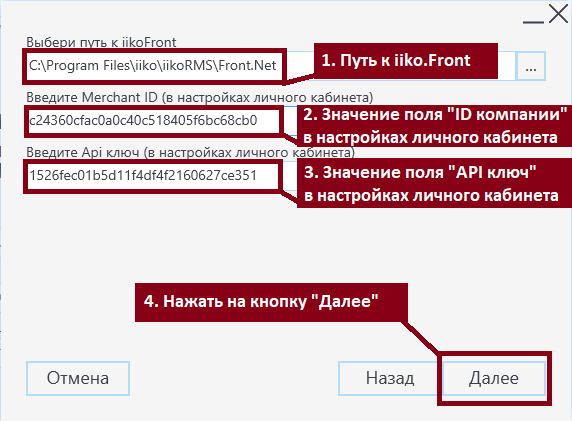
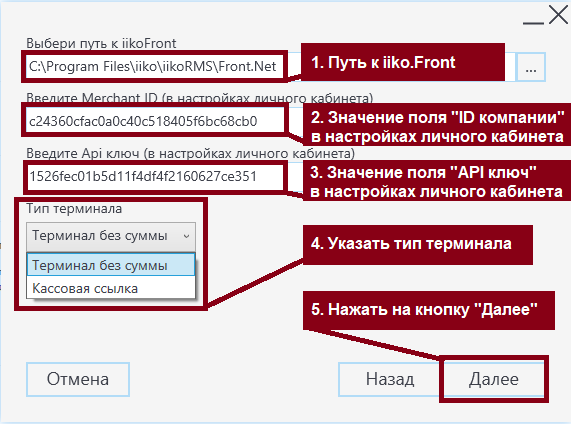
instructions for the plugin version 1.4.2

diff --git a/README.md b/README.md
@@ -17,7 +17,8 @@
 личного кабинета Invoice. <br>
 - Введите в поле "Введите API ключ" значение поля "API ключ", указанного в настройках 
 личного кабинета Invoice. <br>
-- После ввода ключей в поля формы, нажмите на кнопку "Далее". <br>
+- Из выпадающего списка необходимо выбрать тип терминала.  <br>
+- После ввода ключей в поля формы и выбора терминала, нажмите на кнопку "Далее". <br>
 Точное расположение необходимых ключей в разделе "Настройки" личного кабинета Invoice приведено ниже.<br>
 
 ![Укажите путь к iiko.Front, Merchant ID и API-ключ](/img/03_Ключи.png)
@@ -77,8 +78,27 @@
 
 ![Imgur](/img/11_office.png)
 
-6. Чтобы убедиться, что установка прошла успешно, перейдите в iiko.Front. Создайте заказ.
-Нажмите на кнопку "Касса". В разделе "Касса" должна появиться кнопка "Безналичный 
-расчет". При нажатии на нее, должен быть указан тип безналичного расчета "Invoice". 
+6. Для подключения функции "Возврат", необходимо добавить новый тип оплаты:
+- В разделе "Розничные продажи" перейдите во вкладку "Типы оплат".<br>
+- Нажмите на кнопку "Добавить". <br>
 
-![Imgur](/img/12_end.png)
+![Imgur](/img/07_office.png)
+
+7. После нажатия "Добавить", во вкладке "Типы оплат", введите необходимые настройки для функции "Возврат Invoice":<br>
+- В поле "Наименование" введите значение "Возврат Invoice"
+- В поле "Тип" необходимо выбрать значение "Настраиваемый тип оплаты"
+- В поле "Название в чеке" введите значение "Возврат Invoice"
+- Уберите голочку в пункте "Открывать денежный ящик"
+- В поле "Базовый тип оплаты" необходимо выбрать значение "Invoice"
+- В поле "Тип документа" необходимо выбрать значение "Возврат от покупателя"
+- В поле "Счет выручки" необходимо выбрать значение "Торговая выручка без учета скидок"
+- В поле "Счет списания" необходимо выбрать значение "Расход продуктов"
+- Нажмите на кнопку "Сохранить"
+
+![Imgur](/img/12_Возврат.png)
+
+8. Чтобы убедиться, что установка прошла успешно, перейдите в iiko.Front. Нажмите на кнопку 
+"Дополнения". В окне "Плагины" нажмите на кнопку "Invoice". Отобразится информация о плагине.
+
+
+![Imgur](/img/13_end.png)
